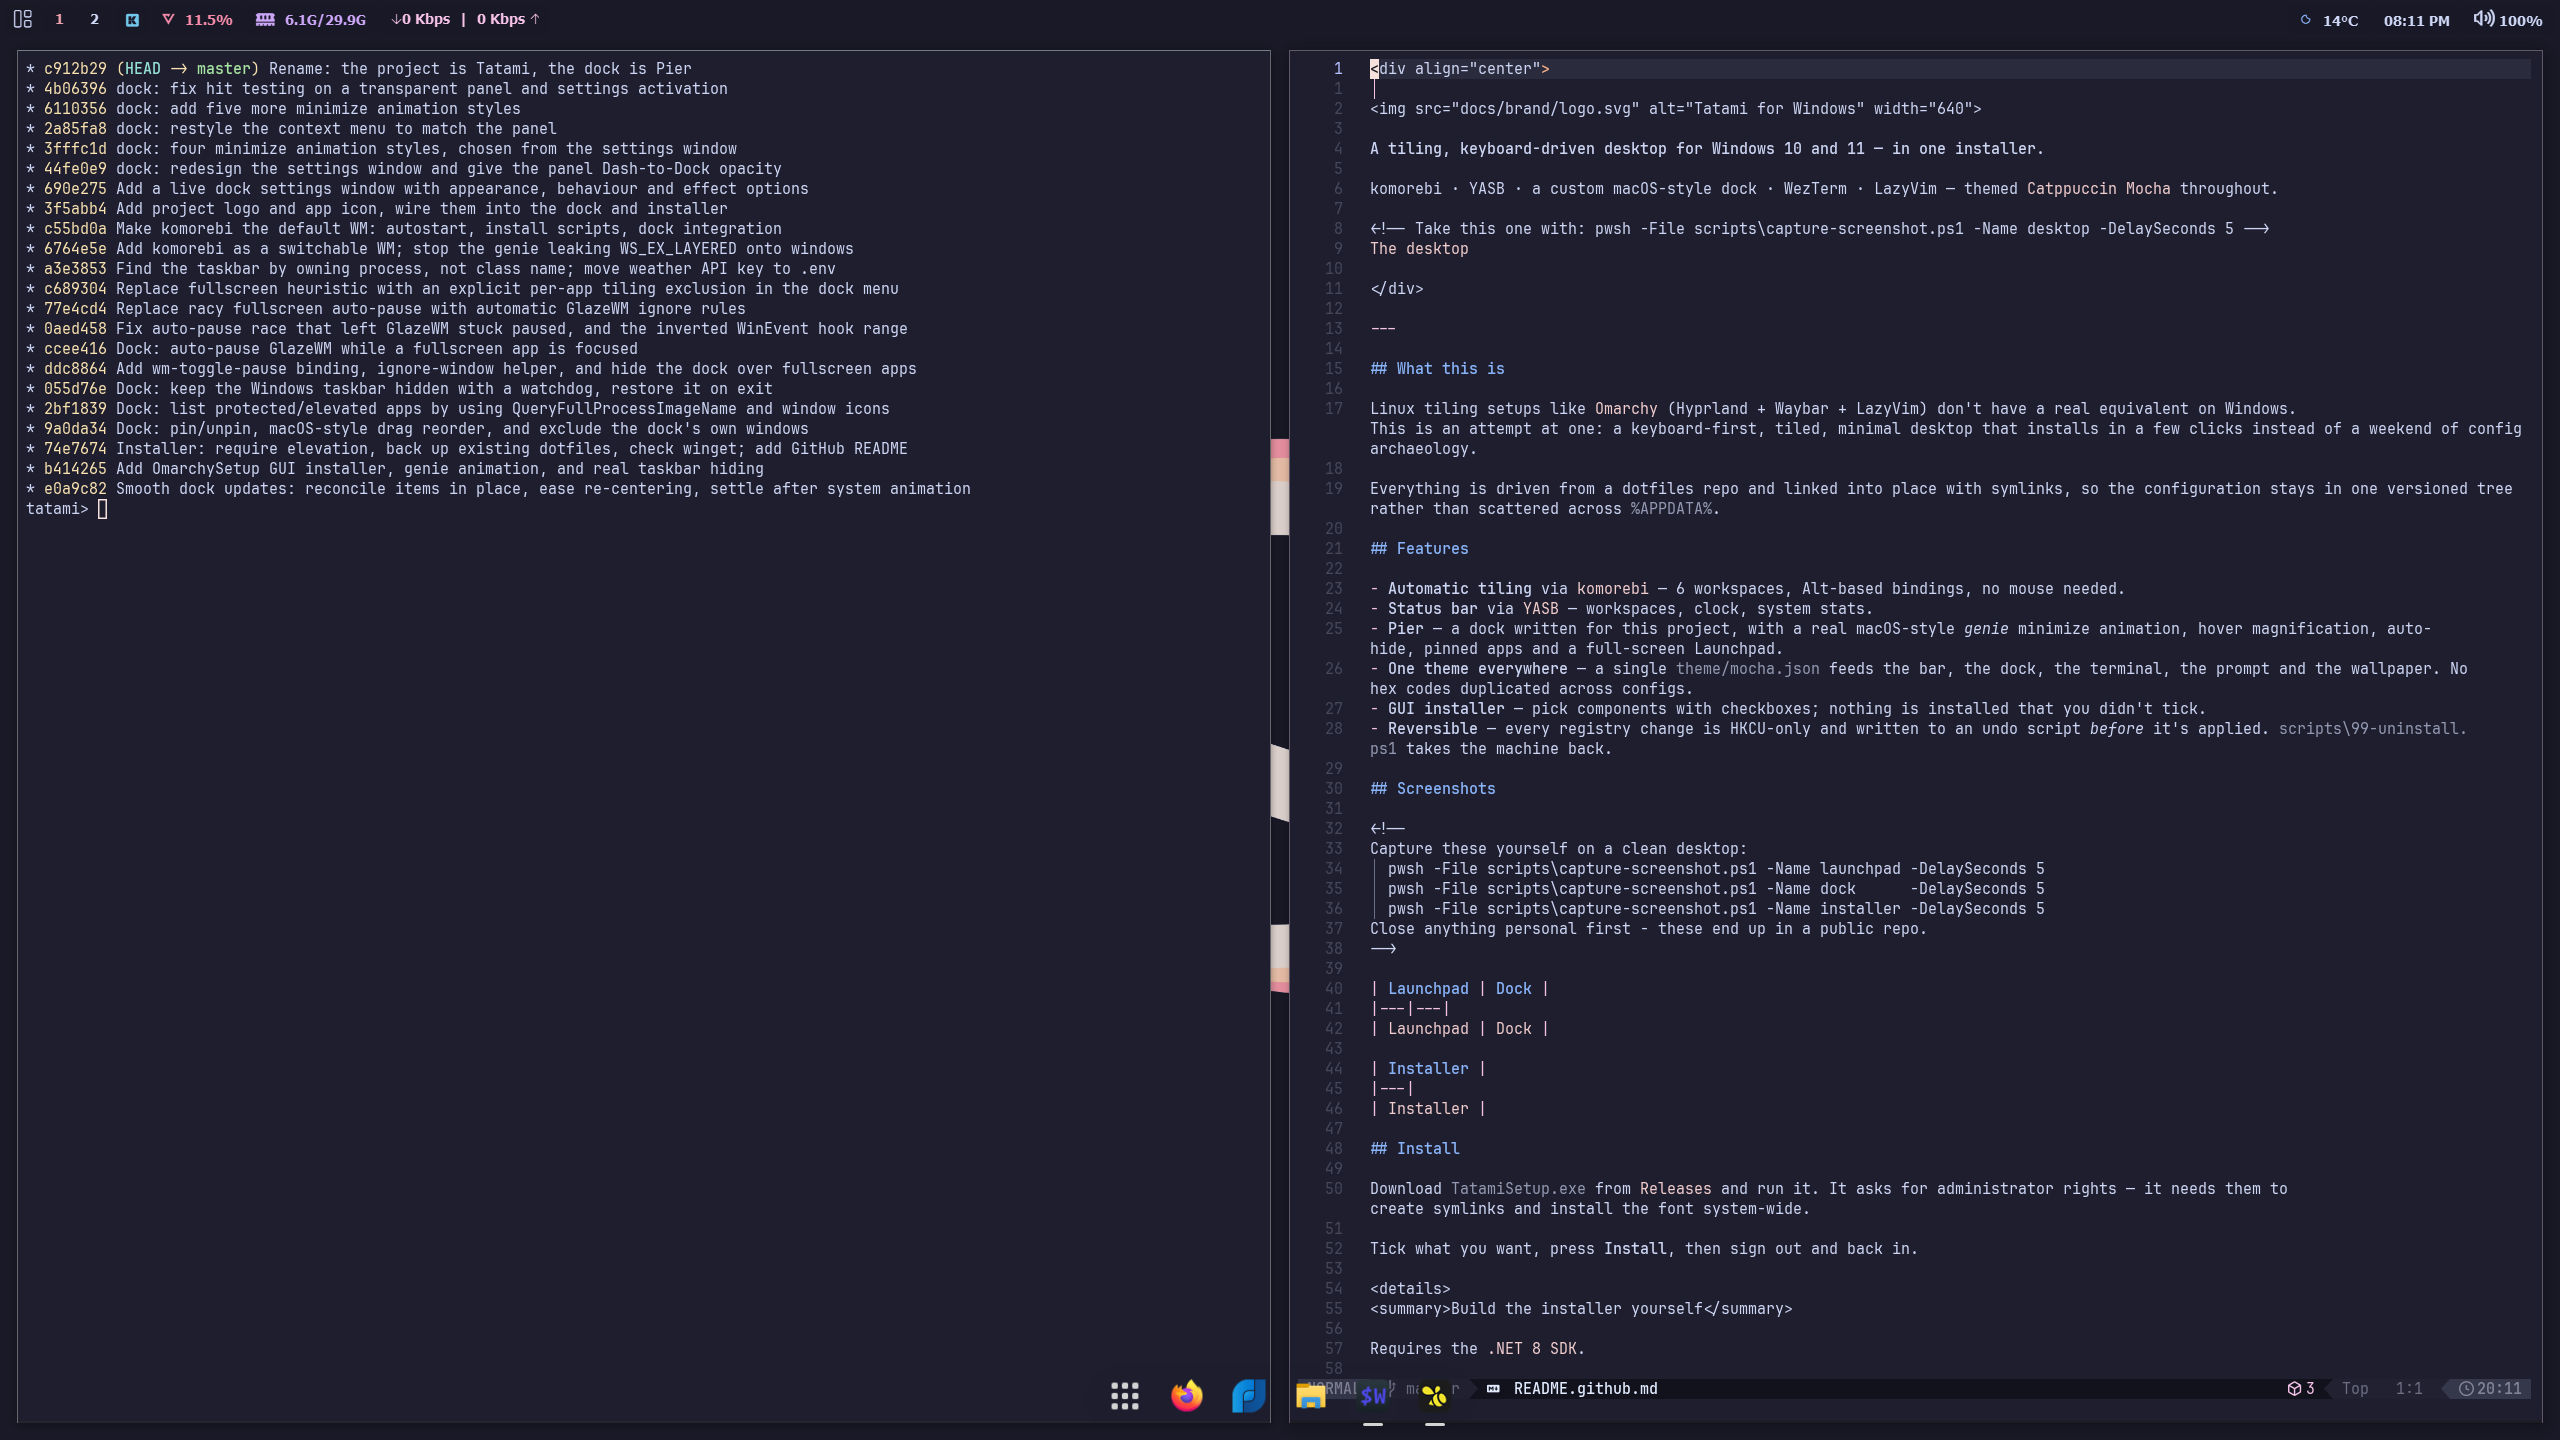
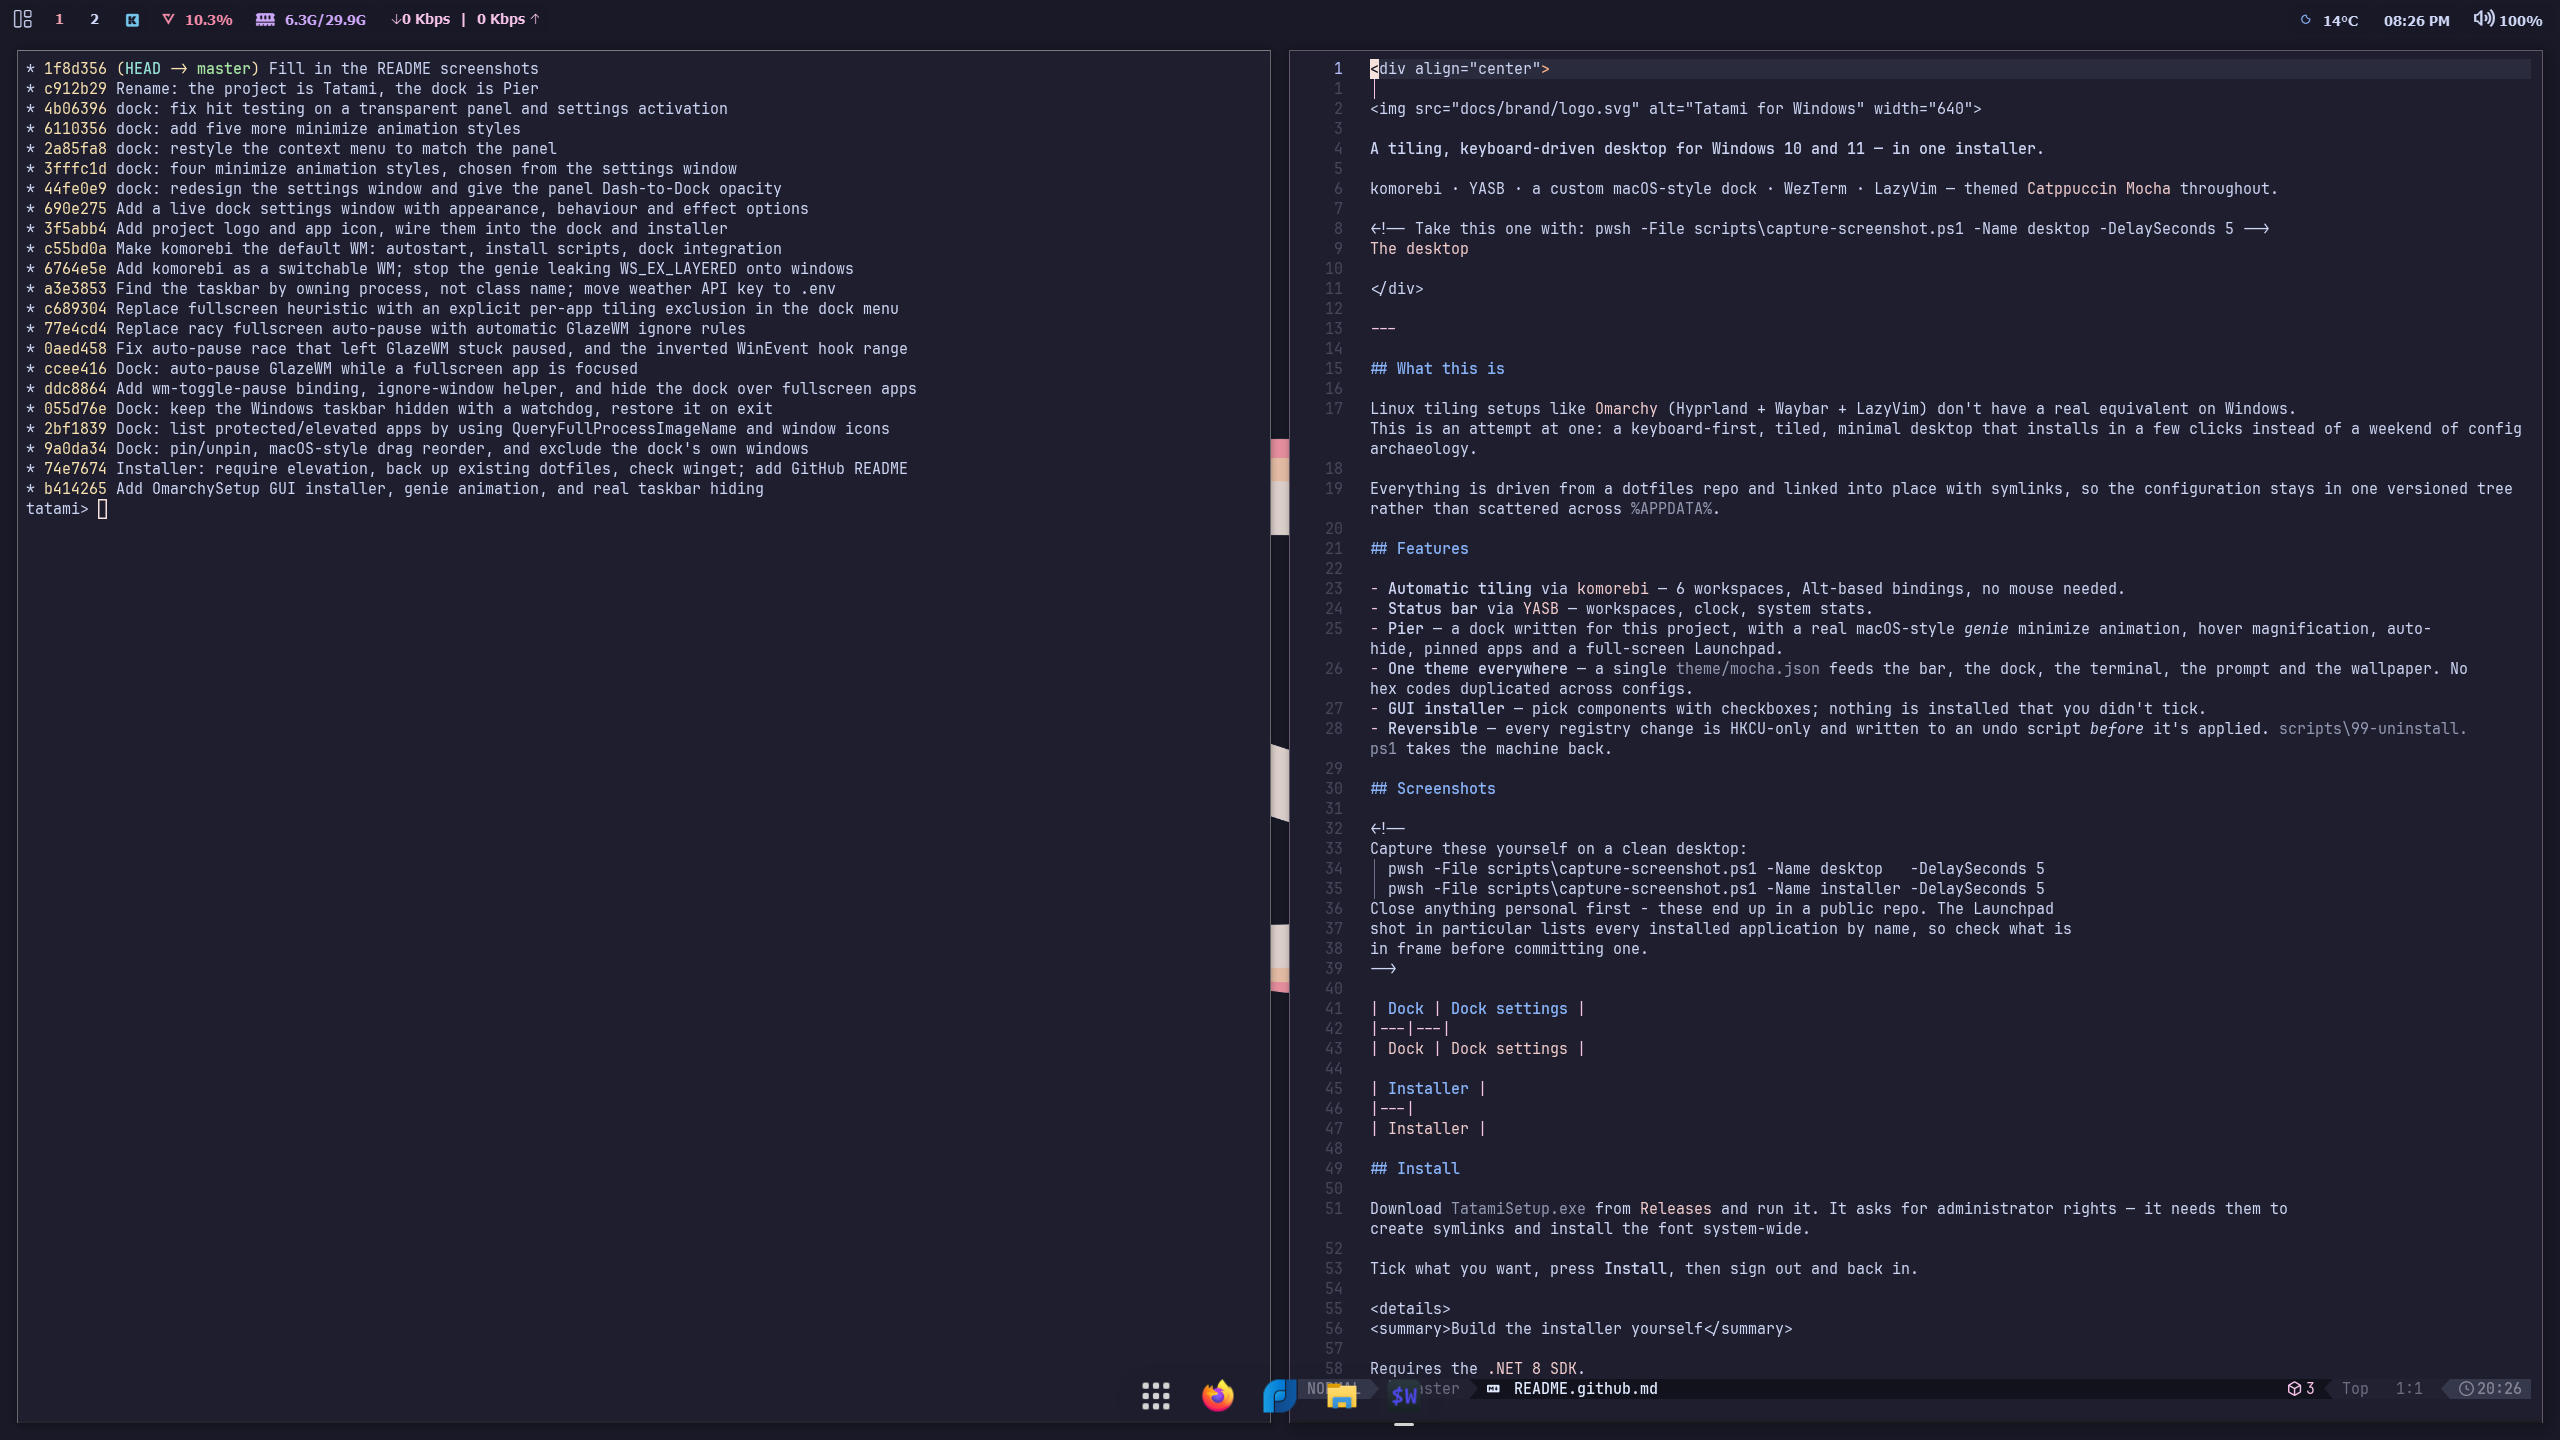
Add the Launchpad screenshot, reshoot the desktop and dock
The Launchpad renders every installed application by name, so it could not be shot as-is. The shortcuts that should not appear in a public repo were moved aside into _backup/2026-08-26/start-menu/ before the capture; _backup/2026-08-26/restore-start-menu.ps1 puts them all back, and the apps themselves were never touched.

The dock lists running windows as well as pinned ones, which put an app that was meant to stay out of frame into both the desktop and dock shots. Both are retaken. dock/pinned.json was already clean - only Firefox, Flow Launcher, Explorer and WezTerm are pinned - so nothing of the sort was ever committed.

The capture note above the gallery now warns about both: the Launchpad names installed apps, and the dock shows running ones.

Changed region(s): [[0.0, 0.0312, 0.375, 0.3438], [0.4375, 0.5938, 0.9062, 1.0]]

diff --git a/README.github.md b/README.github.md
@@ -32,12 +32,17 @@ Everything is driven from a dotfiles repo and linked into place with symlinks, s
 
 <!--
 Capture these yourself on a clean desktop:
+  pwsh -File scripts\capture-screenshot.ps1 -Name launchpad -DelaySeconds 5
   pwsh -File scripts\capture-screenshot.ps1 -Name desktop   -DelaySeconds 5
   pwsh -File scripts\capture-screenshot.ps1 -Name installer -DelaySeconds 5
 Close anything personal first - these end up in a public repo. The Launchpad
-shot in particular lists every installed application by name, so check what is
-in frame before committing one.
+shot names every installed application, so check what is in frame first; the
+dock lists running apps too, so close what shouldn't be shown before shooting.
 -->
+
+| Launchpad |
+|---|
+| ![Launchpad](docs/images/launchpad.png) |
 
 | Dock | Dock settings |
 |---|---|
